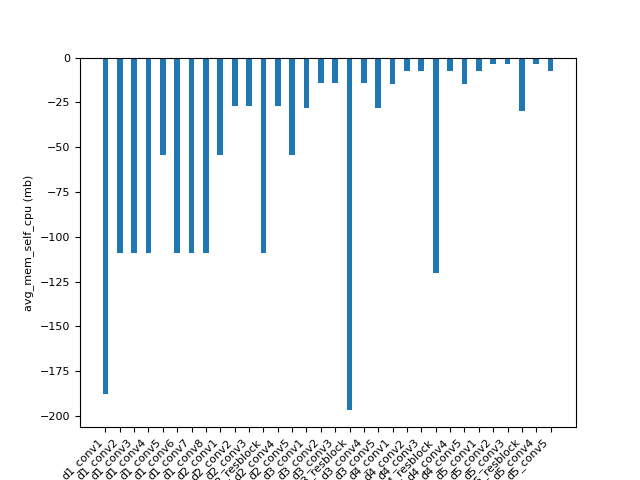
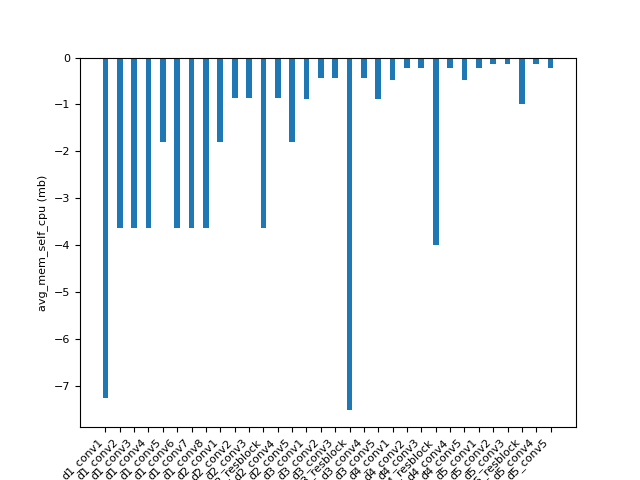
update

diff --git a/models.py b/models.py
@@ -143,9 +143,9 @@ class DownSample1(nn.Module):
                 self.conv1(tmp_input)
         prof_report = str(prof.key_averages().table()).split("\n")
         prof_wrapper.mr.get_mem("d1_conv1", prof_report, usingcuda)
-
-        prof_wrapper.tt.tic("d1_conv1")
         x1 = self.conv1(input)
+        prof_wrapper.tt.tic("d1_conv1")
+        self.conv1(input)
         prof_wrapper.tt.toc("d1_conv1")
 
         prof_wrapper.scale.weight(tensor_src="d1_conv1", data=x1)
@@ -169,9 +169,9 @@ class DownSample1(nn.Module):
                 self.conv2(tmp_input)
         prof_report = str(prof.key_averages().table()).split("\n")
         prof_wrapper.mr.get_mem("d1_conv2", prof_report, usingcuda)
-
-        prof_wrapper.tt.tic("d1_conv2")
         x2 = self.conv2(x1)
+        prof_wrapper.tt.tic("d1_conv2")
+        self.conv2(x1)
         prof_wrapper.tt.toc("d1_conv2")
         prof_wrapper.scale.weight(tensor_src="d1_conv2", data=x2)
         # ----------------------------------------------------------------
@@ -194,9 +194,9 @@ class DownSample1(nn.Module):
                 self.conv3(tmp_input)
         prof_report = str(prof.key_averages().table()).split("\n")
         prof_wrapper.mr.get_mem("d1_conv3", prof_report, usingcuda)
-
-        prof_wrapper.tt.tic("d1_conv3")
         x3 = self.conv3(x2)
+        prof_wrapper.tt.tic("d1_conv3")
+        self.conv3(x2)
         prof_wrapper.tt.toc("d1_conv3")
         prof_wrapper.scale.weight(tensor_src="d1_conv3", data=x3)
         # ----------------------------------------------------------------
@@ -220,9 +220,9 @@ class DownSample1(nn.Module):
                 self.conv4(tmp_input)
         prof_report = str(prof.key_averages().table()).split("\n")
         prof_wrapper.mr.get_mem("d1_conv4", prof_report, usingcuda)
-
-        prof_wrapper.tt.tic("d1_conv4")
         x4 = self.conv4(x2)
+        prof_wrapper.tt.tic("d1_conv4")
+        self.conv4(x2)
         prof_wrapper.tt.toc("d1_conv4")
         prof_wrapper.scale.weight(tensor_src="d1_conv4", data=x4)
         # ----------------------------------------------------------------
@@ -245,9 +245,9 @@ class DownSample1(nn.Module):
                 self.conv5(tmp_input)
         prof_report = str(prof.key_averages().table()).split("\n")
         prof_wrapper.mr.get_mem("d1_conv5", prof_report, usingcuda)
-
-        prof_wrapper.tt.tic("d1_conv5")
         x5 = self.conv5(x4)
+        prof_wrapper.tt.tic("d1_conv5")
+        self.conv5(x4)
         prof_wrapper.tt.toc("d1_conv5")
         prof_wrapper.scale.weight(tensor_src="d1_conv5", data=x5)
         # ----------------------------------------------------------------
@@ -270,9 +270,9 @@ class DownSample1(nn.Module):
                 self.conv6(tmp_input)
         prof_report = str(prof.key_averages().table()).split("\n")
         prof_wrapper.mr.get_mem("d1_conv6", prof_report, usingcuda)
-
-        prof_wrapper.tt.tic("d1_conv6")
         x6 = self.conv6(x5)
+        prof_wrapper.tt.tic("d1_conv6")
+        self.conv6(x5)
         prof_wrapper.tt.toc("d1_conv6")
         prof_wrapper.scale.weight(tensor_src="d1_conv6", data=x6)
         # ----------------------------------------------------------------
@@ -297,9 +297,9 @@ class DownSample1(nn.Module):
 
         prof_report = str(prof.key_averages().table()).split("\n")
         prof_wrapper.mr.get_mem("d1_conv7", prof_report, usingcuda)
-
-        prof_wrapper.tt.tic("d1_conv7")
         x7 = self.conv7(x6)
+        prof_wrapper.tt.tic("d1_conv7")
+        self.conv7(x6)
         prof_wrapper.tt.toc("d1_conv7")
         prof_wrapper.scale.weight(tensor_src="d1_conv7", data=x7)
         # ----------------------------------------------------------------
@@ -325,9 +325,9 @@ class DownSample1(nn.Module):
                 self.conv8(tmp_input)
         prof_report = str(prof.key_averages().table()).split("\n")
         prof_wrapper.mr.get_mem("d1_conv8", prof_report, usingcuda)
-
-        prof_wrapper.tt.tic("d1_conv8")
         x8 = self.conv8(x7)
+        prof_wrapper.tt.tic("d1_conv8")
+        self.conv8(x7)
         prof_wrapper.tt.toc("d1_conv8")
         prof_wrapper.scale.weight(tensor_src="d1_conv8", data=x8)
         # ----------------------------------------------------------------
@@ -369,9 +369,9 @@ class DownSample2(nn.Module):
                 self.conv1(tmp_input)
         prof_report = str(prof.key_averages().table()).split("\n")
         prof_wrapper.mr.get_mem("d2_conv1", prof_report, usingcuda)
-
-        prof_wrapper.tt.tic("d2_conv1")
         x1 = self.conv1(input)
+        prof_wrapper.tt.tic("d2_conv1")
+        self.conv1(input)
         prof_wrapper.tt.toc("d2_conv1")
         prof_wrapper.scale.weight(tensor_src="d2_conv1", data=x1)
         # ----------------------------------------------------------------
@@ -394,9 +394,9 @@ class DownSample2(nn.Module):
                 self.conv2(tmp_input)
         prof_report = str(prof.key_averages().table()).split("\n")
         prof_wrapper.mr.get_mem("d2_conv2", prof_report, usingcuda)
-
-        prof_wrapper.tt.tic("d2_conv2")
         x2 = self.conv2(x1)
+        prof_wrapper.tt.tic("d2_conv2")
+        self.conv2(x1)
         prof_wrapper.tt.toc("d2_conv2")
         prof_wrapper.scale.weight(tensor_src="d2_conv2", data=x2)
         # ----------------------------------------------------------------
@@ -419,9 +419,9 @@ class DownSample2(nn.Module):
                 self.conv3(tmp_input)
         prof_report = str(prof.key_averages().table()).split("\n")
         prof_wrapper.mr.get_mem("d2_conv3", prof_report, usingcuda)
-
-        prof_wrapper.tt.tic("d2_conv3")
         x3 = self.conv3(x1)
+        prof_wrapper.tt.tic("d2_conv3")
+        self.conv3(x1)
         prof_wrapper.tt.toc("d2_conv3")
         prof_wrapper.scale.weight(tensor_src="d2_conv3", data=x3)
         # ----------------------------------------------------------------
@@ -444,9 +444,9 @@ class DownSample2(nn.Module):
                 self.resblock(tmp_input)
         prof_report = str(prof.key_averages().table()).split("\n")
         prof_wrapper.mr.get_mem("d2_resblock", prof_report, usingcuda)
-
-        prof_wrapper.tt.tic("d2_resblock")
         r = self.resblock(x3)
+        prof_wrapper.tt.tic("d2_resblock")
+        self.resblock(x3)
         prof_wrapper.tt.toc("d2_resblock")
         prof_wrapper.scale.weight(tensor_src="d2_resblock", data=r)
         # ----------------------------------------------------------------
@@ -470,9 +470,9 @@ class DownSample2(nn.Module):
 
         prof_report = str(prof.key_averages().table()).split("\n")
         prof_wrapper.mr.get_mem("d2_conv4", prof_report, usingcuda)
-
-        prof_wrapper.tt.tic("d2_conv4")
         x4 = self.conv4(r)
+        prof_wrapper.tt.tic("d2_conv4")
+        self.conv4(r)
         prof_wrapper.tt.toc("d2_conv4")
         prof_wrapper.scale.weight(tensor_src="d2_conv4", data=x4)
         # ----------------------------------------------------------------
@@ -496,9 +496,9 @@ class DownSample2(nn.Module):
                 self.conv5(tmp_input)
         prof_report = str(prof.key_averages().table()).split("\n")
         prof_wrapper.mr.get_mem("d2_conv5", prof_report, usingcuda)
-
-        prof_wrapper.tt.tic("d2_conv5")
         x5 = self.conv5(x4)
+        prof_wrapper.tt.tic("d2_conv5")
+        self.conv5(x4)
         prof_wrapper.tt.toc("d2_conv5")
         prof_wrapper.scale.weight(tensor_src="d2_conv5", data=x5)
         # ----------------------------------------------------------------
@@ -545,9 +545,9 @@ class DownSample3(nn.Module):
                 self.conv1(tmp_input)
         prof_report = str(prof.key_averages().table()).split("\n")
         prof_wrapper.mr.get_mem("d3_conv1", prof_report, usingcuda)
-
-        prof_wrapper.tt.tic("d3_conv1")
         x1 = self.conv1(input)
+        prof_wrapper.tt.tic("d3_conv1")
+        self.conv1(input)
         prof_wrapper.tt.toc("d3_conv1")
         prof_wrapper.scale.weight(tensor_src="d3_conv1", data=x1)
         # ----------------------------------------------------------------
@@ -570,9 +570,9 @@ class DownSample3(nn.Module):
                 self.conv2(tmp_input)
         prof_report = str(prof.key_averages().table()).split("\n")
         prof_wrapper.mr.get_mem("d3_conv2", prof_report, usingcuda)
-
-        prof_wrapper.tt.tic("d3_conv2")
         x2 = self.conv2(x1)
+        prof_wrapper.tt.tic("d3_conv2")
+        self.conv2(x1)
         prof_wrapper.tt.toc("d3_conv2")
         prof_wrapper.scale.weight(tensor_src="d3_conv2", data=x2)
         # ----------------------------------------------------------------
@@ -595,9 +595,9 @@ class DownSample3(nn.Module):
                 self.conv3(tmp_input)
         prof_report = str(prof.key_averages().table()).split("\n")
         prof_wrapper.mr.get_mem("d3_conv3", prof_report, usingcuda)
-
-        prof_wrapper.tt.tic("d3_conv3")
         x3 = self.conv3(x1)
+        prof_wrapper.tt.tic("d3_conv3")
+        self.conv3(x1)
         prof_wrapper.tt.toc("d3_conv3")
         prof_wrapper.scale.weight(tensor_src="d3_conv3", data=x3)
         # ----------------------------------------------------------------
@@ -620,9 +620,9 @@ class DownSample3(nn.Module):
                 self.resblock(tmp_input)
         prof_report = str(prof.key_averages().table()).split("\n")
         prof_wrapper.mr.get_mem("d3_resblock", prof_report, usingcuda)
-
-        prof_wrapper.tt.tic("d3_resblock")
         r = self.resblock(x3)
+        prof_wrapper.tt.tic("d3_resblock")
+        self.resblock(x3)
         prof_wrapper.tt.toc("d3_resblock")
         prof_wrapper.scale.weight(tensor_src="d3_resblock", data=r)
         # ----------------------------------------------------------------
@@ -646,9 +646,9 @@ class DownSample3(nn.Module):
 
         prof_report = str(prof.key_averages().table()).split("\n")
         prof_wrapper.mr.get_mem("d3_conv4", prof_report, usingcuda)
-
-        prof_wrapper.tt.tic("d3_conv4")
         x4 = self.conv4(r)
+        prof_wrapper.tt.tic("d3_conv4")
+        self.conv4(r)
         prof_wrapper.tt.toc("d3_conv4")
         prof_wrapper.scale.weight(tensor_src="d3_conv4", data=x4)
         # ----------------------------------------------------------------
@@ -672,9 +672,9 @@ class DownSample3(nn.Module):
                 self.conv5(tmp_input)
         prof_report = str(prof.key_averages().table()).split("\n")
         prof_wrapper.mr.get_mem("d3_conv5", prof_report, usingcuda)
-
-        prof_wrapper.tt.tic("d3_conv5")
         x5 = self.conv5(x4)
+        prof_wrapper.tt.tic("d3_conv5")
+        self.conv5(x4)
         prof_wrapper.tt.toc("d3_conv5")
         prof_wrapper.scale.weight(tensor_src="d3_conv5", data=x5)
         # ----------------------------------------------------------------
@@ -721,9 +721,9 @@ class DownSample4(nn.Module):
                 self.conv1(tmp_input)
         prof_report = str(prof.key_averages().table()).split("\n")
         prof_wrapper.mr.get_mem("d4_conv1", prof_report, usingcuda)
-
-        prof_wrapper.tt.tic("d4_conv1")
         x1 = self.conv1(input)
+        prof_wrapper.tt.tic("d4_conv1")
+        self.conv1(input)
         prof_wrapper.tt.toc("d4_conv1")
         prof_wrapper.scale.weight(tensor_src="d4_conv1", data=x1)
         # ----------------------------------------------------------------
@@ -746,9 +746,9 @@ class DownSample4(nn.Module):
                 self.conv2(tmp_input)
         prof_report = str(prof.key_averages().table()).split("\n")
         prof_wrapper.mr.get_mem("d4_conv2", prof_report, usingcuda)
-
-        prof_wrapper.tt.tic("d4_conv2")
         x2 = self.conv2(x1)
+        prof_wrapper.tt.tic("d4_conv2")
+        self.conv2(x1)
         prof_wrapper.tt.toc("d4_conv2")
         prof_wrapper.scale.weight(tensor_src="d4_conv2", data=x2)
         # ----------------------------------------------------------------
@@ -771,9 +771,9 @@ class DownSample4(nn.Module):
                 self.conv3(tmp_input)
         prof_report = str(prof.key_averages().table()).split("\n")
         prof_wrapper.mr.get_mem("d4_conv3", prof_report, usingcuda)
-
-        prof_wrapper.tt.tic("d4_conv3")
         x3 = self.conv3(x1)
+        prof_wrapper.tt.tic("d4_conv3")
+        self.conv3(x1)
         prof_wrapper.tt.toc("d4_conv3")
         prof_wrapper.scale.weight(tensor_src="d4_conv3", data=x3)
         # ----------------------------------------------------------------
@@ -796,9 +796,9 @@ class DownSample4(nn.Module):
                 self.resblock(tmp_input)
         prof_report = str(prof.key_averages().table()).split("\n")
         prof_wrapper.mr.get_mem("d4_resblock", prof_report, usingcuda)
-
-        prof_wrapper.tt.tic("d4_resblock")
         r = self.resblock(x3)
+        prof_wrapper.tt.tic("d4_resblock")
+        self.resblock(x3)
         prof_wrapper.tt.toc("d4_resblock")
         prof_wrapper.scale.weight(tensor_src="d4_resblock", data=r)
         # ----------------------------------------------------------------
@@ -821,9 +821,9 @@ class DownSample4(nn.Module):
                 self.conv4(tmp_input)
         prof_report = str(prof.key_averages().table()).split("\n")
         prof_wrapper.mr.get_mem("d4_conv4", prof_report, usingcuda)
-
-        prof_wrapper.tt.tic("d4_conv4")
         x4 = self.conv4(r)
+        prof_wrapper.tt.tic("d4_conv4")
+        self.conv4(r)
         prof_wrapper.tt.toc("d4_conv4")
         prof_wrapper.scale.weight(tensor_src="d4_conv4", data=x4)
         # ----------------------------------------------------------------
@@ -847,9 +847,9 @@ class DownSample4(nn.Module):
                 self.conv5(tmp_input)
         prof_report = str(prof.key_averages().table()).split("\n")
         prof_wrapper.mr.get_mem("d4_conv5", prof_report, usingcuda)
-
-        prof_wrapper.tt.tic("d4_conv5")
         x5 = self.conv5(x4)
+        prof_wrapper.tt.tic("d4_conv5")
+        self.conv5(x4)
         prof_wrapper.tt.toc("d4_conv5")
         prof_wrapper.scale.weight(tensor_src="d4_conv5", data=x5)
         # ----------------------------------------------------------------
@@ -896,9 +896,9 @@ class DownSample5(nn.Module):
                 self.conv1(tmp_input)
         prof_report = str(prof.key_averages().table()).split("\n")
         prof_wrapper.mr.get_mem("d5_conv1", prof_report, usingcuda)
-
-        prof_wrapper.tt.tic("d5_conv1")
         x1 = self.conv1(input)
+        prof_wrapper.tt.tic("d5_conv1")
+        self.conv1(input)
         prof_wrapper.tt.toc("d5_conv1")
         prof_wrapper.scale.weight(tensor_src="d5_conv1", data=x1)
         # ----------------------------------------------------------------
@@ -921,9 +921,9 @@ class DownSample5(nn.Module):
                 self.conv2(tmp_input)
         prof_report = str(prof.key_averages().table()).split("\n")
         prof_wrapper.mr.get_mem("d5_conv2", prof_report, usingcuda)
-
-        prof_wrapper.tt.tic("d5_conv2")
         x2 = self.conv2(x1)
+        prof_wrapper.tt.tic("d5_conv2")
+        self.conv2(x1)
         prof_wrapper.tt.toc("d5_conv2")
         prof_wrapper.scale.weight(tensor_src="d5_conv2", data=x2)
         # ----------------------------------------------------------------
@@ -946,9 +946,9 @@ class DownSample5(nn.Module):
                 self.conv3(tmp_input)
         prof_report = str(prof.key_averages().table()).split("\n")
         prof_wrapper.mr.get_mem("d5_conv3", prof_report, usingcuda)
-
-        prof_wrapper.tt.tic("d5_conv3")
         x3 = self.conv3(x1)
+        prof_wrapper.tt.tic("d5_conv3")
+        self.conv3(x1)
         prof_wrapper.tt.toc("d5_conv3")
         prof_wrapper.scale.weight(tensor_src="d5_conv3", data=x3)
         # ----------------------------------------------------------------
@@ -971,9 +971,9 @@ class DownSample5(nn.Module):
                 self.resblock(tmp_input)
         prof_report = str(prof.key_averages().table()).split("\n")
         prof_wrapper.mr.get_mem("d5_resblock", prof_report, usingcuda)
-
-        prof_wrapper.tt.tic("d5_resblock")
         r = self.resblock(x3)
+        prof_wrapper.tt.tic("d5_resblock")
+        self.resblock(x3)
         prof_wrapper.tt.toc("d5_resblock")
         prof_wrapper.scale.weight(tensor_src="d5_resblock", data=r)
         # ----------------------------------------------------------------
@@ -996,9 +996,9 @@ class DownSample5(nn.Module):
                 self.conv4(tmp_input)
         prof_report = str(prof.key_averages().table()).split("\n")
         prof_wrapper.mr.get_mem("d5_conv4", prof_report, usingcuda)
-
-        prof_wrapper.tt.tic("d5_conv4")
         x4 = self.conv4(r)
+        prof_wrapper.tt.tic("d5_conv4")
+        self.conv4(r)
         prof_wrapper.tt.toc("d5_conv4")
         prof_wrapper.scale.weight(tensor_src="d5_conv4", data=x4)
         # ----------------------------------------------------------------
@@ -1022,9 +1022,9 @@ class DownSample5(nn.Module):
                 self.conv5(tmp_input)
         prof_report = str(prof.key_averages().table()).split("\n")
         prof_wrapper.mr.get_mem("d5_conv5", prof_report, usingcuda)
-
-        prof_wrapper.tt.tic("d5_conv5")
         x5 = self.conv5(x4)
+        prof_wrapper.tt.tic("d5_conv5")
+        self.conv5(x4)
         prof_wrapper.tt.toc("d5_conv5")
         prof_wrapper.scale.weight(tensor_src="d5_conv5", data=x5)
         # ----------------------------------------------------------------
